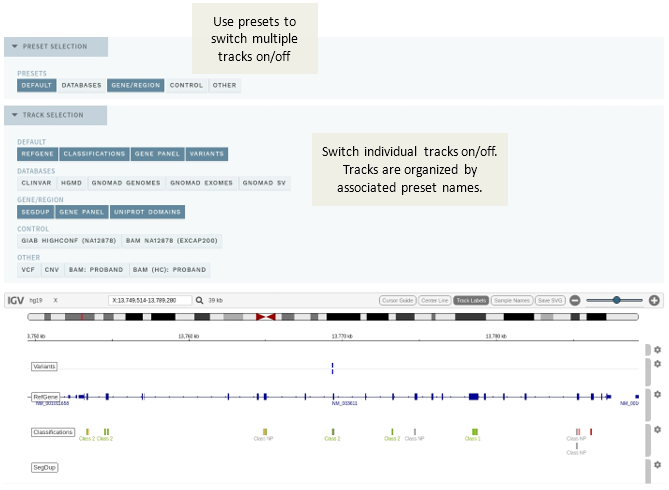
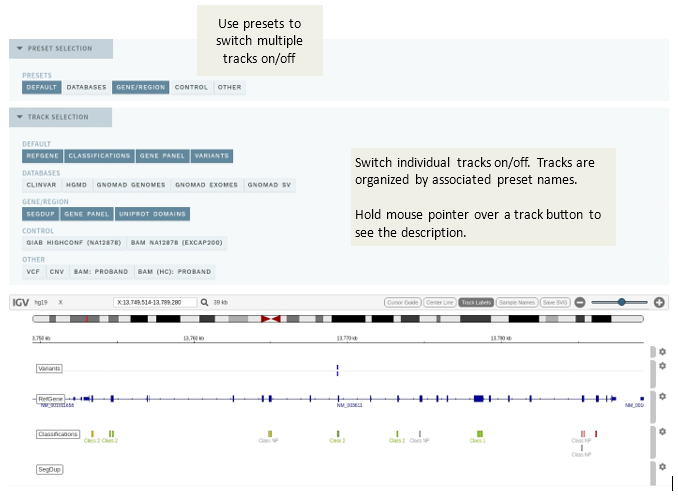
[docs] Docs changes for !695

diff --git a/docs/technical/uioptions.md b/docs/technical/uioptions.md
@@ -150,6 +150,7 @@ Field | Description | Values
 `show` | Define whether the track should belong to the `Default` preset, which is turned on by default when loading VISUAL for a new analysis (all other tracks are turned off and must be switched on manually). | `true`/`false`
 `type` | When `roi`, the track will be displayed as a [region of interest](https://github.com/igvteam/igv.js/wiki/Regions-of-Interest) (e.g. useful for marking the region of a variant). | `roi`/`null`
 `url` | A template URL to retrieve the track. The URL will be used for igv.js (`igv.url`) | [URL template]
+`description` | Track description, shown when hovering over the track selector button. | See [Track selection](https://allel.es/docs/manual/visual.html#track-selection)
 `igv` | Supports all the configuration values of igv.js. The value for `name` will be the track's ID, if not set explicitly. | See [igv.js Tracks 2.0](https://github.com/igvteam/igv.js/wiki/Tracks-2.0)
 
 ### Auto-text in REPORT

diff --git a/docs/releasenotes/README.md b/docs/releasenotes/README.md
@@ -15,7 +15,7 @@ See [older releases](/releasenotes/olderreleases.md) for earlier versions.
 
 ## Version 1.17
 
-Release date: 19.01.2022
+Release date: TBD
 
 ### Highlights
 
@@ -33,6 +33,8 @@ Release date: 19.01.2022
 - Fixed a bug causing a reset of analysis names whens clicking import options for batch imports.
 <!-- MR !691 -->
 - Fixed a bug causing analysis to fail loading  when PL values for de novo calculation is very high.
+<!-- MR !695 -->
+- Added track description in mouseover for track selector buttons in VISUAL.
 <!-- 
 No further release notes necessary, but adding here for reference: 
 MR !683 Fix review app / demo functionality

diff --git a/docs/manual/visual.md b/docs/manual/visual.md
@@ -24,6 +24,8 @@ This section lists all presets defined for individual tracks and allows you to q
 
 This section is collapsed by default. To switch on/off individual tracks, expand the section and click the associated track name. Tracks are grouped by their associated preset names. 
 
+To see a description of the track, hold the mouse pointer over the associated track button. 
+
 ### Dynamic tracks 
 
 Some tracks are dynamic and generated on-the-fly in ELLA. These currently include: 
